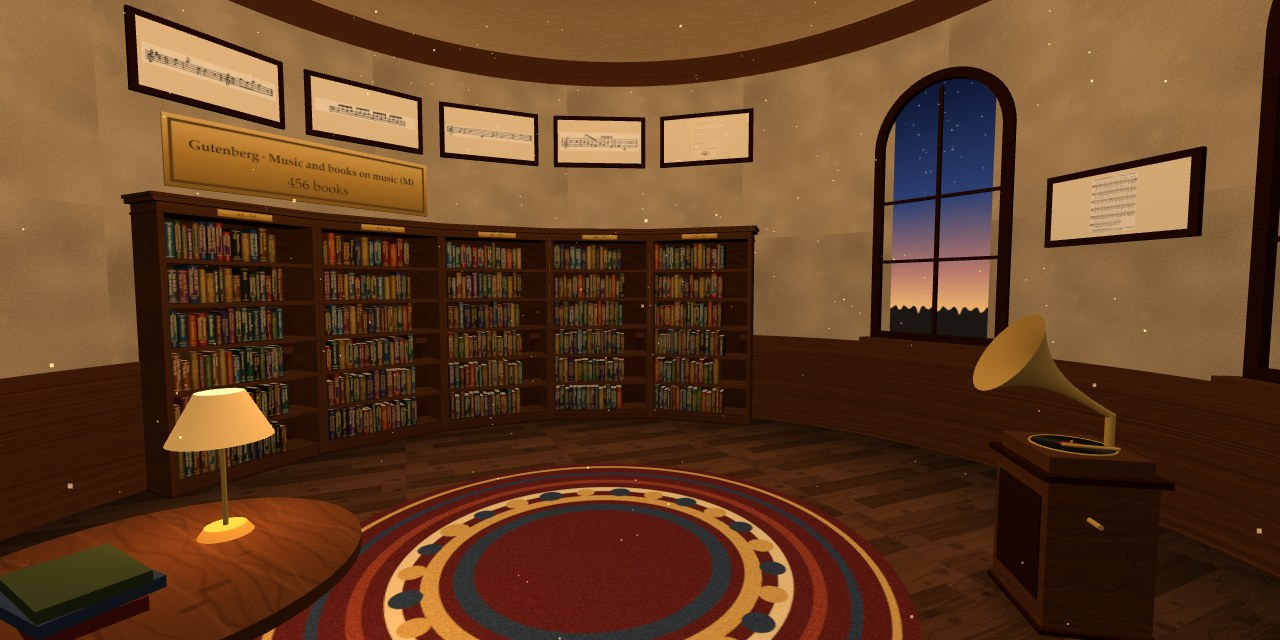
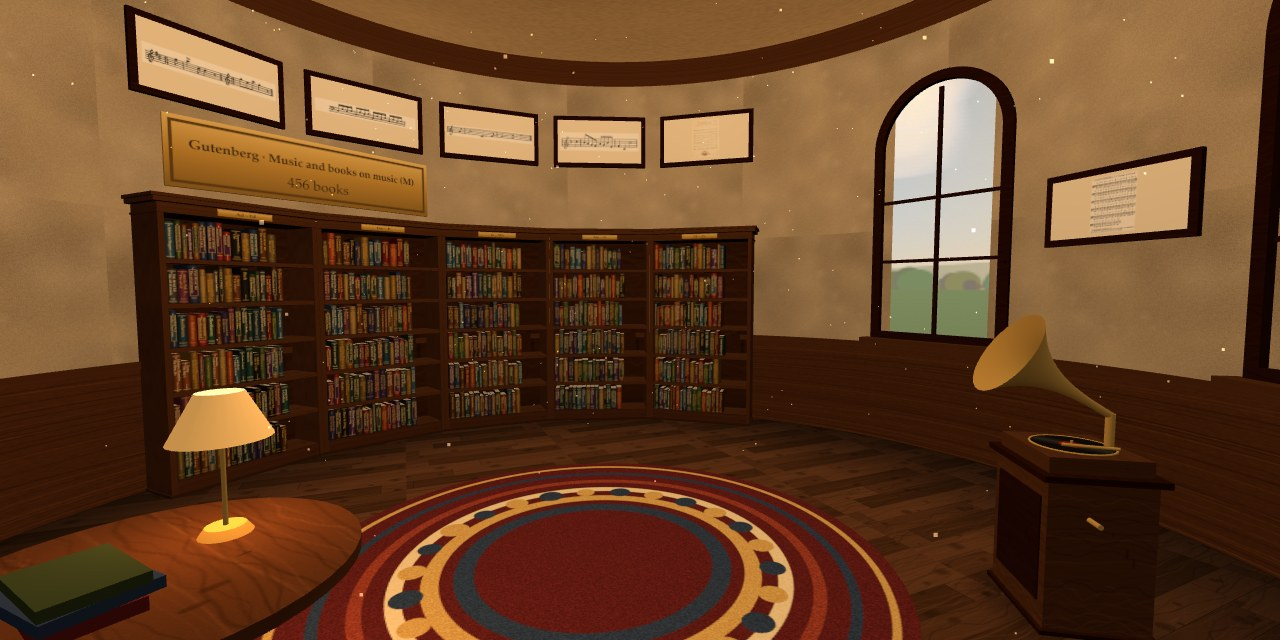
The sun by the gramophone: a room whose books play turns its sky to the gramophone's side
vrlbry's rule (rotundaSkyYaw) puts the low sun a little to one side of the window most to the
left of the spawn point. The music room's gramophone stands to the right, so that window was a
plain blue there, and the sun's glow was across the room from it. rotundaSkyYaw takes a side:
-1, the left, as before and the default, or 1, the window most to the right, on its front
side. createRotunda asks for the right when it has a gramophone (a library whose books play);
other rooms and halls are as in vrlbry. A test checks both sides, and SPEC §3 says so.

public/social.jpg and docs/social-preview.jpg retaken from the same place (the music room,
1280 x 640, the catalogue stand hidden): the window by the gramophone now shows the afternoon
sun's glow, not the old evening.

Checked in the browser: the window by the gramophone glows and the skylight is blue. "← Hallway"
leads to https://ariamokr.github.io/hallway/?from=music, and the door back shows
views/music.jpg. With Less motion (help dialog or kiosk): a book comes out and goes back in one
frame (54 and 41 eased frames with full motion), the fades blink, the door's shimmer is held,
and the kiosk's comfort row fits under walking and turning. Tests: 592 pass, 2 skipped.

Changed region(s): [[0.6875, 0.125, 0.7812, 0.5312]]

diff --git a/public/js/world/room.js b/public/js/world/room.js
@@ -23,16 +23,19 @@ const SUN_AZ = Math.atan2(SUN_DIR[0], -SUN_DIR[2]);
  * The sky's yaw for a rotunda (common's skyMaterial): the low sun a little to one side of the
  * window most to the left of someone at the spawn point (bearing nearest -90°: the windows stand
  * either side of the bookcases ahead and the door behind), so its glow shows there rather than
- * glaring straight through. 0 without windows. Pure.
+ * glaring straight through; with `side` 1 the window most to the right (+90°: a room whose books
+ * play, the gramophone's side), its front side. 0 without windows. Pure.
  * @param {number[]} windowAngles radians, 0 = -Z, increasing toward +X (createRotunda)
+ * @param {-1|1} [side] -1 the left, 1 the right
  */
-export function rotundaSkyYaw(windowAngles) {
+export function rotundaSkyYaw(windowAngles, side = -1) {
+  const toward = (side * Math.PI) / 2;
   let best = null;
   for (const a of windowAngles) {
     const bearing = Math.atan2(Math.sin(a), Math.cos(a)); // into (-π, π]
-    if (best === null || Math.abs(bearing + Math.PI / 2) < Math.abs(best + Math.PI / 2)) best = bearing;
+    if (best === null || Math.abs(bearing - toward) < Math.abs(best - toward)) best = bearing;
   }
-  return best === null ? 0 : SUN_AZ - (best + 0.12);
+  return best === null ? 0 : SUN_AZ - (best - side * 0.12);
 }
 
 /** Dark-to-clear gradient for the floor rim along the wall. */
@@ -429,7 +432,8 @@ export function createRotunda({ R, windowAngles = [], kiosk, decor = true, gramo
 
   const rr = R - 0.03;
   addWindows(group, windowAngles.map((a) => ({ width: 1.1, height: 2.4, x: Math.sin(a) * rr, y: 1.15, z: -Math.cos(a) * rr, yaw: -a })));
-  mats.sky.uniforms.uYaw.value = rotundaSkyYaw(windowAngles); // one sky for its windows and the oculus
+  // One sky for its windows and the oculus; with a gramophone, the sun's glow by the window beside it.
+  mats.sky.uniforms.uYaw.value = rotundaSkyYaw(windowAngles, withGramophone ? 1 : -1);
 
   commonLights(group);
   const chandelier = makeChandelier(group, 0, WALL_H - 0.5, 0, 0.7);

diff --git a/test/client-room.test.js b/test/client-room.test.js
@@ -88,6 +88,15 @@ describe('the sky in the windows', () => {
     assert.ok(glass && skyUsers.includes(glass) && skyUsers.length === 2, 'the windows\' glass and the oculus');
   });
 
+  it('puts it beside the window most to the right in a room with a gramophone', () => {
+    const angles = [1.3, 2 * Math.PI - 1.3, 2.2, 2 * Math.PI - 2.2];
+    const yaw = rotundaSkyYaw(angles, 1);
+    assert.ok(Math.abs(wrap(sunBearing(yaw)) - (1.3 - 0.12)) < 1e-9, 'beside the right window nearest +90°, its front side');
+    assert.equal(rotundaSkyYaw(angles, -1), rotundaSkyYaw(angles));
+    createRotunda({ R: 6, windowAngles: angles, kiosk: null, gramophone: true });
+    assert.equal(roomMaterials().sky.uniforms.uYaw.value, yaw);
+  });
+
   it('lays the hall out as the garden is', () => {
     createHall({ minX: -5, maxX: 5, minZ: -20, maxZ: 2, kiosk: null });
     assert.equal(roomMaterials().sky.uniforms.uYaw.value, 0);

diff --git a/SPEC.md b/SPEC.md
@@ -1393,8 +1393,9 @@ export class Book3D {
   AriaMoKr/common's `sky.js` (`skyTexture`, painted once and shared, 45-68 ms on a Quest 3 behind
   the first room's loading; `skyMaterial`, the panorama by the direction from the eye, at
   infinity), turned per room by its `uYaw`: in a rotunda the low sun stands a little to one side
-  of the window most to the left of the spawn point (`rotundaSkyYaw`), a hall is laid out as the
-  garden is (0). The candles light the rooms as before.
+  of the window most to the left of the spawn point (`rotundaSkyYaw`), in one with a gramophone
+  (§5.6) of the window most to the right, on its front side, so its glow shows by the gramophone
+  (`rotundaSkyYaw(angles, 1)`); a hall is laid out as the garden is (0). The candles light the rooms as before.
 - **Spines:** canvas-rendered into atlases (e.g. 2048² per bookcase): base colour per book
   (palette of cloth/leather colours by hash), gilt bands, title (vertical, auto-fit, wrapping to
   2 lines for wide spines), author short name near the bottom. Must be legible at ~1.5 m in VR.
